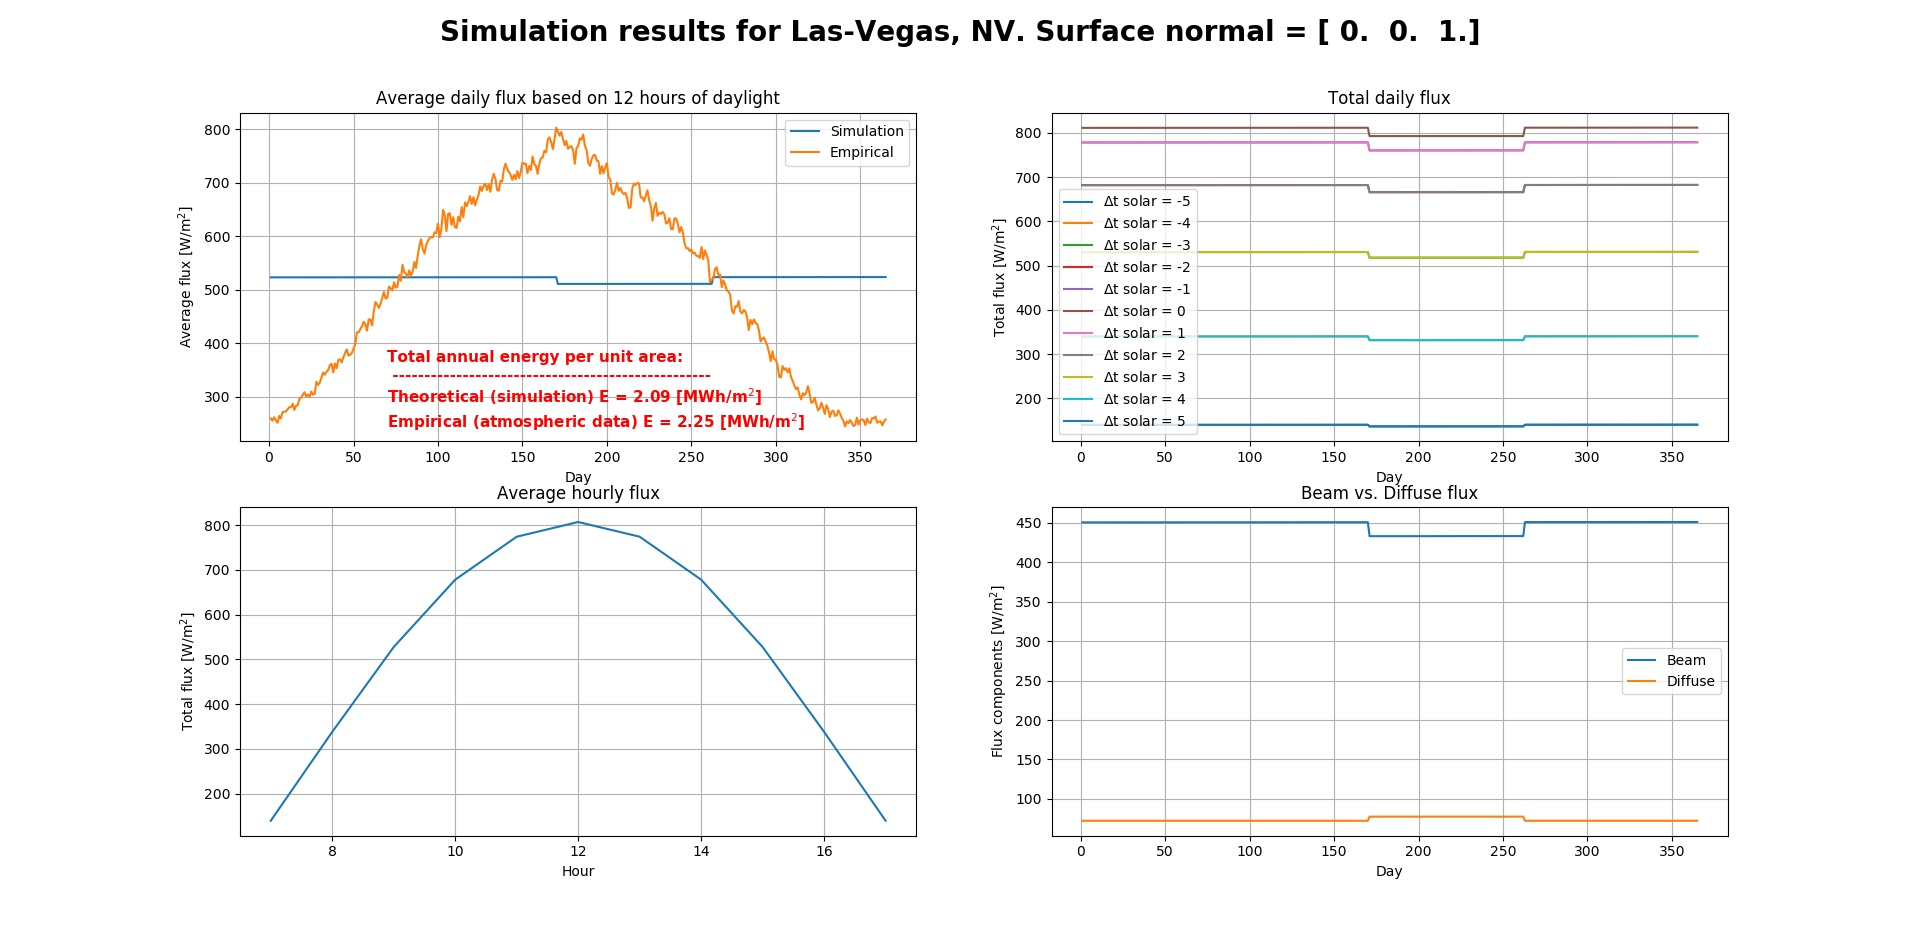
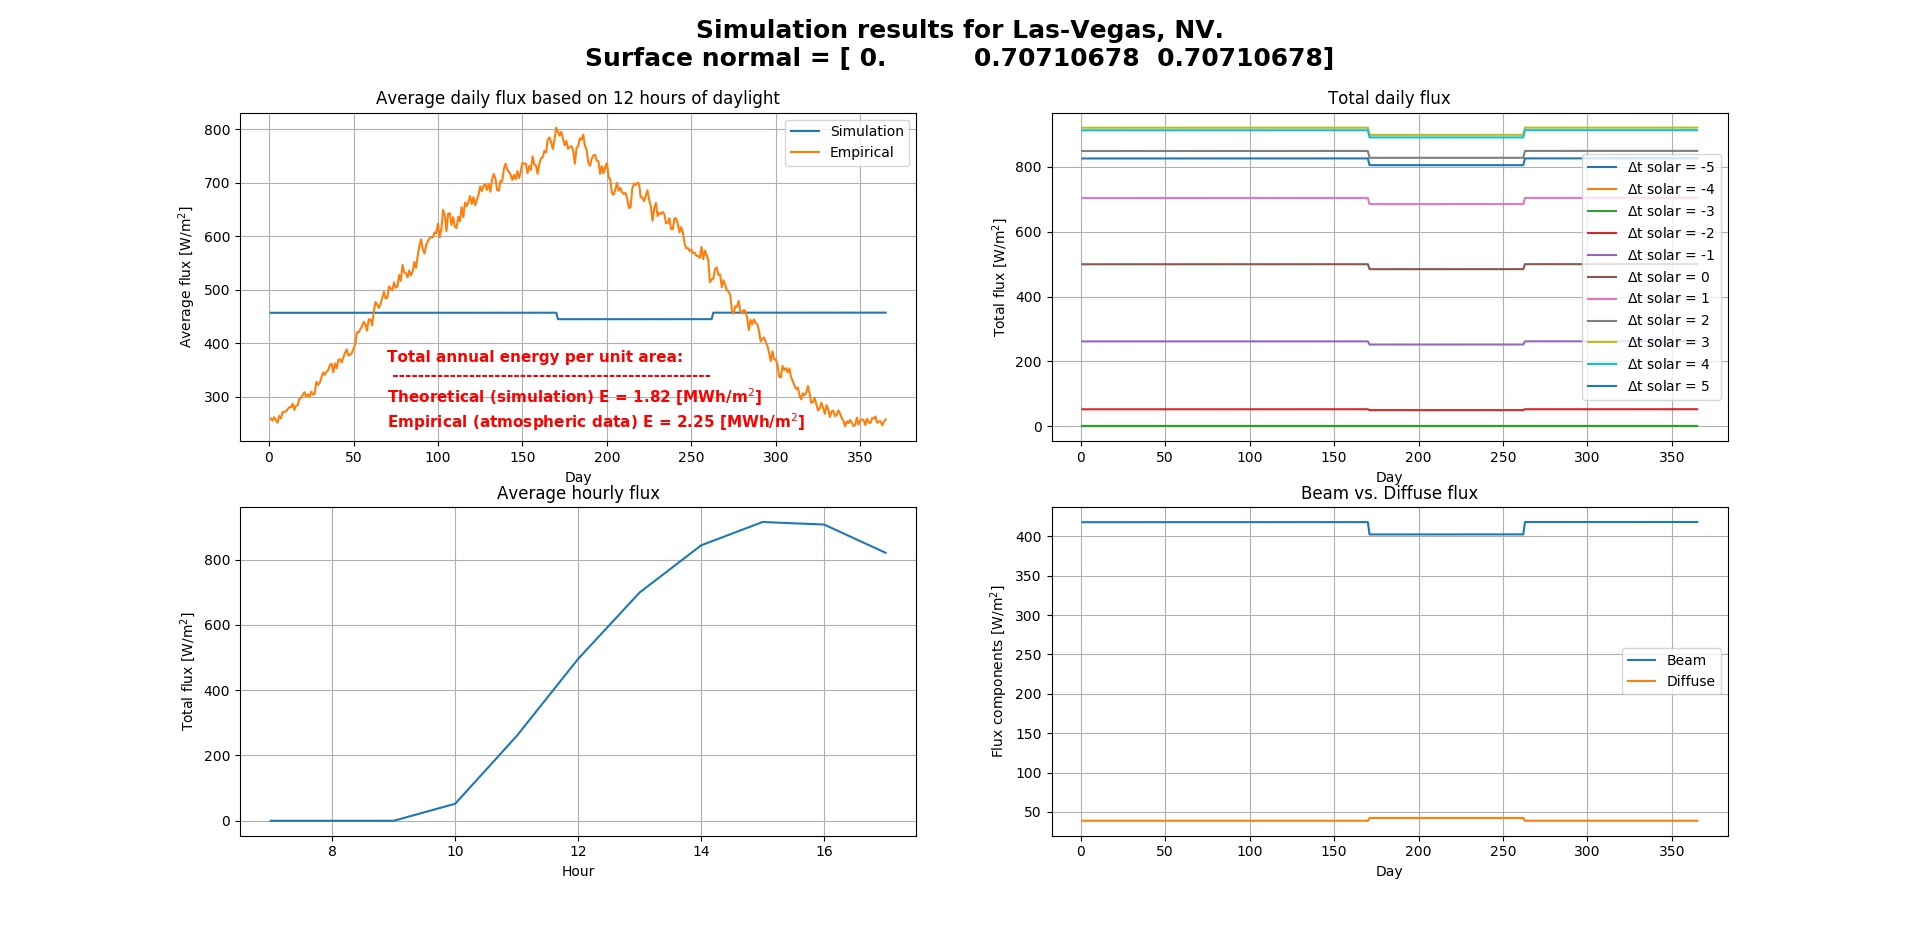
Bug fix with negative cos_theta due to surface orientation. problem was solved using max([],0) inside loop calculation so there is no negative flux possible.

diff --git a/insulation_model.py b/insulation_model.py
@@ -24,7 +24,7 @@ G0 = 1367 # Solar constant [W/m**2]
 A = 0.610 # Altitude [km]
 
 ''' Surface vector '''
-surf_p = np.array([0,0,2])
+surf_p = np.array([0,1,1])
 surf_p = surf_p/np.sqrt(np.dot(surf_p,surf_p)) #Normalization of surface vector
 
 ''' Independent variables '''
@@ -84,10 +84,10 @@ for i in range(len(days)):
         sun_vec[2,i,j] = np.cos(phi)*np.cos(delta[i])*np.cos(omega[j])+np.sin(phi)*np.sin(delta[i])
         cos_theta[i,j] = (np.dot(sun_vec[:,i,j],surf_p))/(np.linalg.norm(sun_vec[:,i,j])*np.linalg.norm(surf_p))
         #zenith[i,j] = (np.cos(phi)*np.cos(delta[i])*np.cos(omega[j])+np.sin(phi)*np.sin(delta[i]))
-        tau_b[i,j] = a0[i]+a1[i]*np.exp(-k[i]/cos_theta[i,j])
-        Gb[i,j] = G0*tau_b[i,j]*cos_theta[i,j]
-        tau_d[i,j] = cos_theta[i,j]*(0.271-0.294*tau_b[i,j])
-        Gd[i,j] = G0*tau_d[i,j]
+        tau_b[i,j] =max((a0[i]+a1[i]*np.exp(-k[i]/cos_theta[i,j])),0)
+        Gb[i,j] = max((G0*tau_b[i,j]*cos_theta[i,j]),0)
+        tau_d[i,j] = max((cos_theta[i,j]*(0.271-0.294*tau_b[i,j])),0)
+        Gd[i,j] = max((G0*tau_d[i,j]*cos_theta[i,j]),0)
         Gtot[i,j] = Gb[i,j] + Gd[i,j]
     Gav_day[i] = np.average(Gtot[i])
     Gb_av[i] = np.average(Gb[i])
@@ -105,7 +105,8 @@ E_emp = round(np.sum(Gav_emp)*24/1e6,2) # Multiply every day average by 12 hours
 plt.close('all')
 
 fig1 = plt.figure()
-fig1.suptitle("Simulation results for Las-Vegas, NV. Surface normal = "+str(surf_p), fontweight = "bold", fontsize=20)
+fig1.suptitle("Simulation results for Las-Vegas, NV.\nSurface normal = "
+              +str(surf_p), fontweight = "bold", fontsize=18)
 ax1 = fig1.add_subplot(221)
 ax1.plot(days,Gav_day, label = "Simulation")
 ax1.plot(days,Gav_emp*2, label = "Empirical") #Multiplting since the eimpirical averaging is for 24 hours
@@ -116,7 +117,8 @@ ax1.set_title("Average daily flux based on 12 hours of daylight")
 ax1.annotate("Total annual energy per unit area: \n "+
          "--------------------------------------------------\n"+
          "Theoretical (simulation) E = "+str(E_sim)+" [MWh/m$^2$] \n"+
-         "Empirical (atmospheric data) E = "+str(E_emp)+" [MWh/m$^2$]", fontsize = 11, color="red", fontweight = "bold", xy=(70, 240))
+         "Empirical (atmospheric data) E = "+str(E_emp)+" [MWh/m$^2$]", 
+         fontsize = 11, color="red", fontweight = "bold", xy=(70, 240))
 
 ax1.legend()
 ax1.grid()
